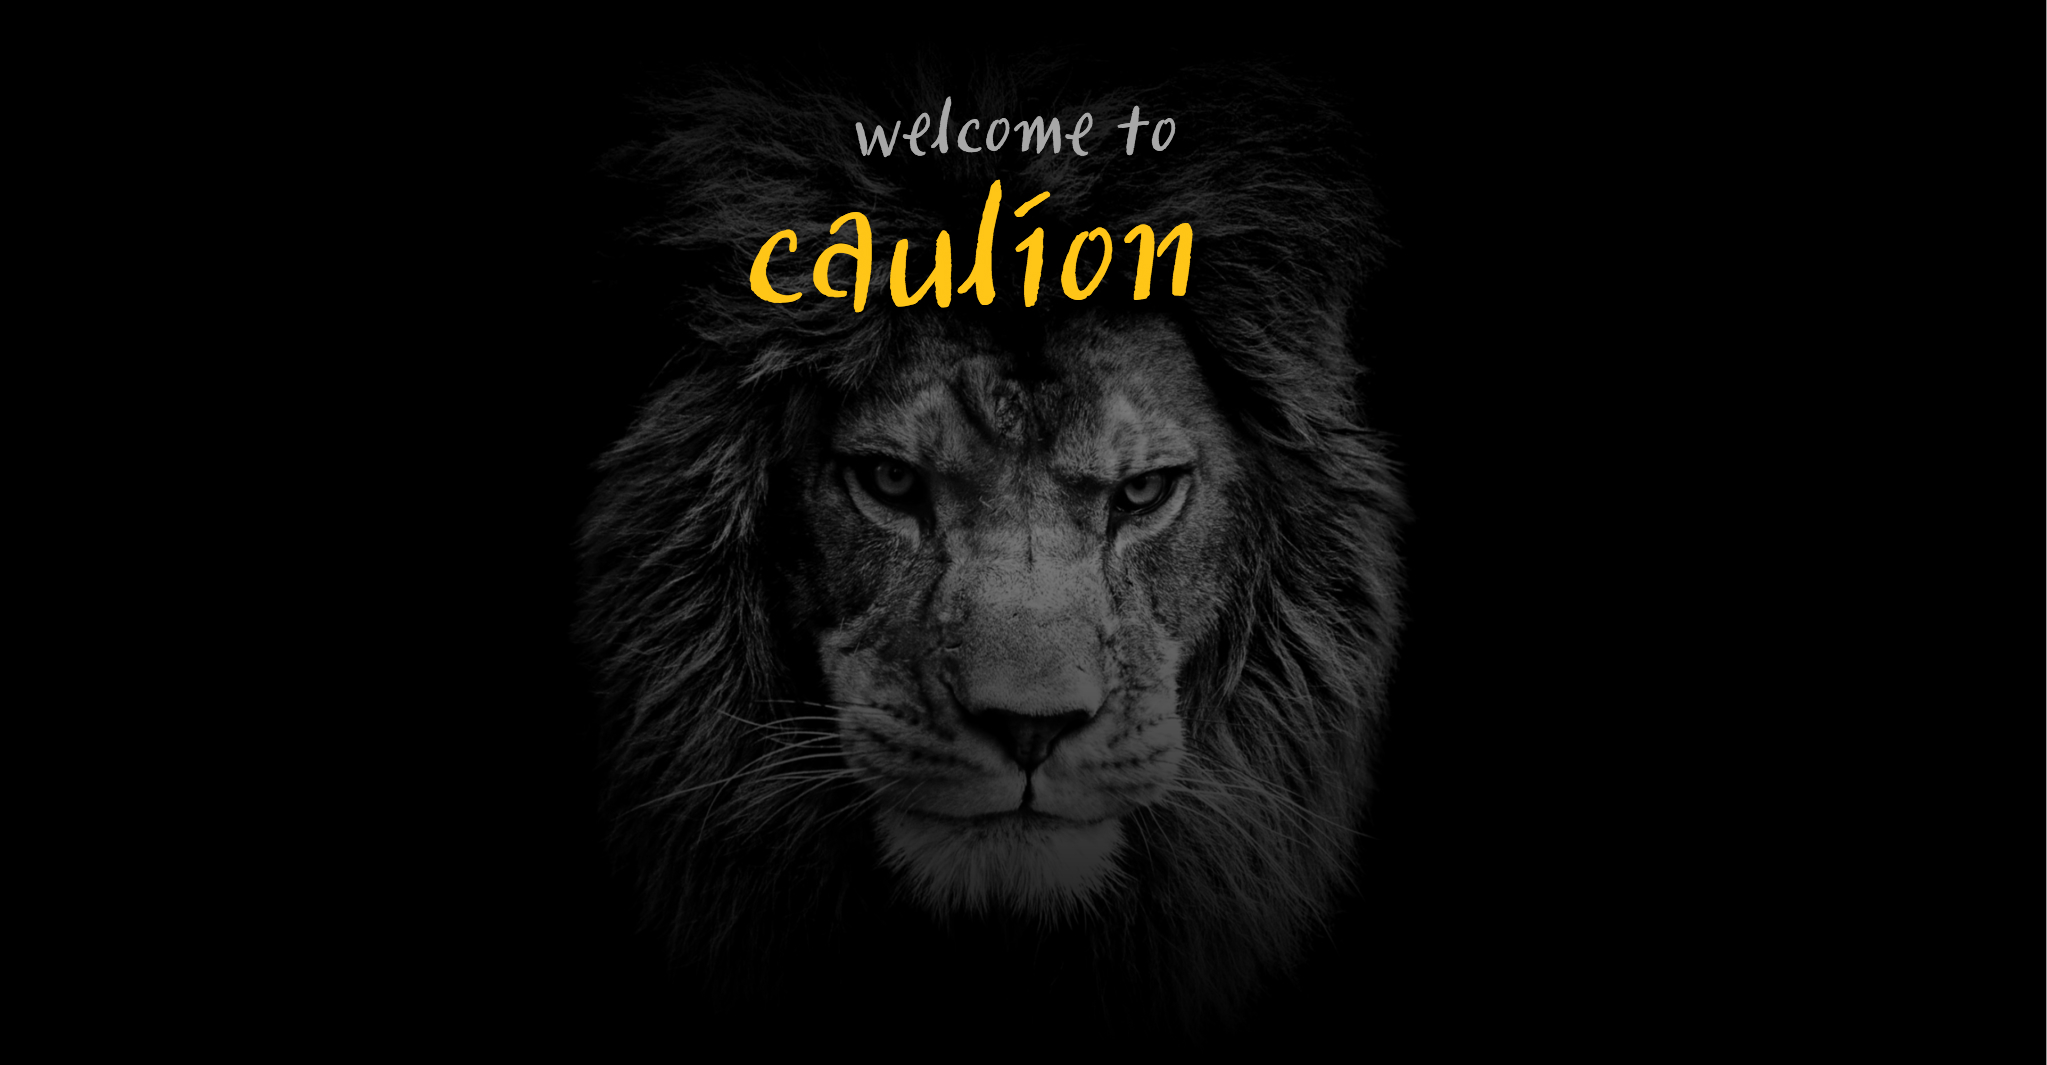
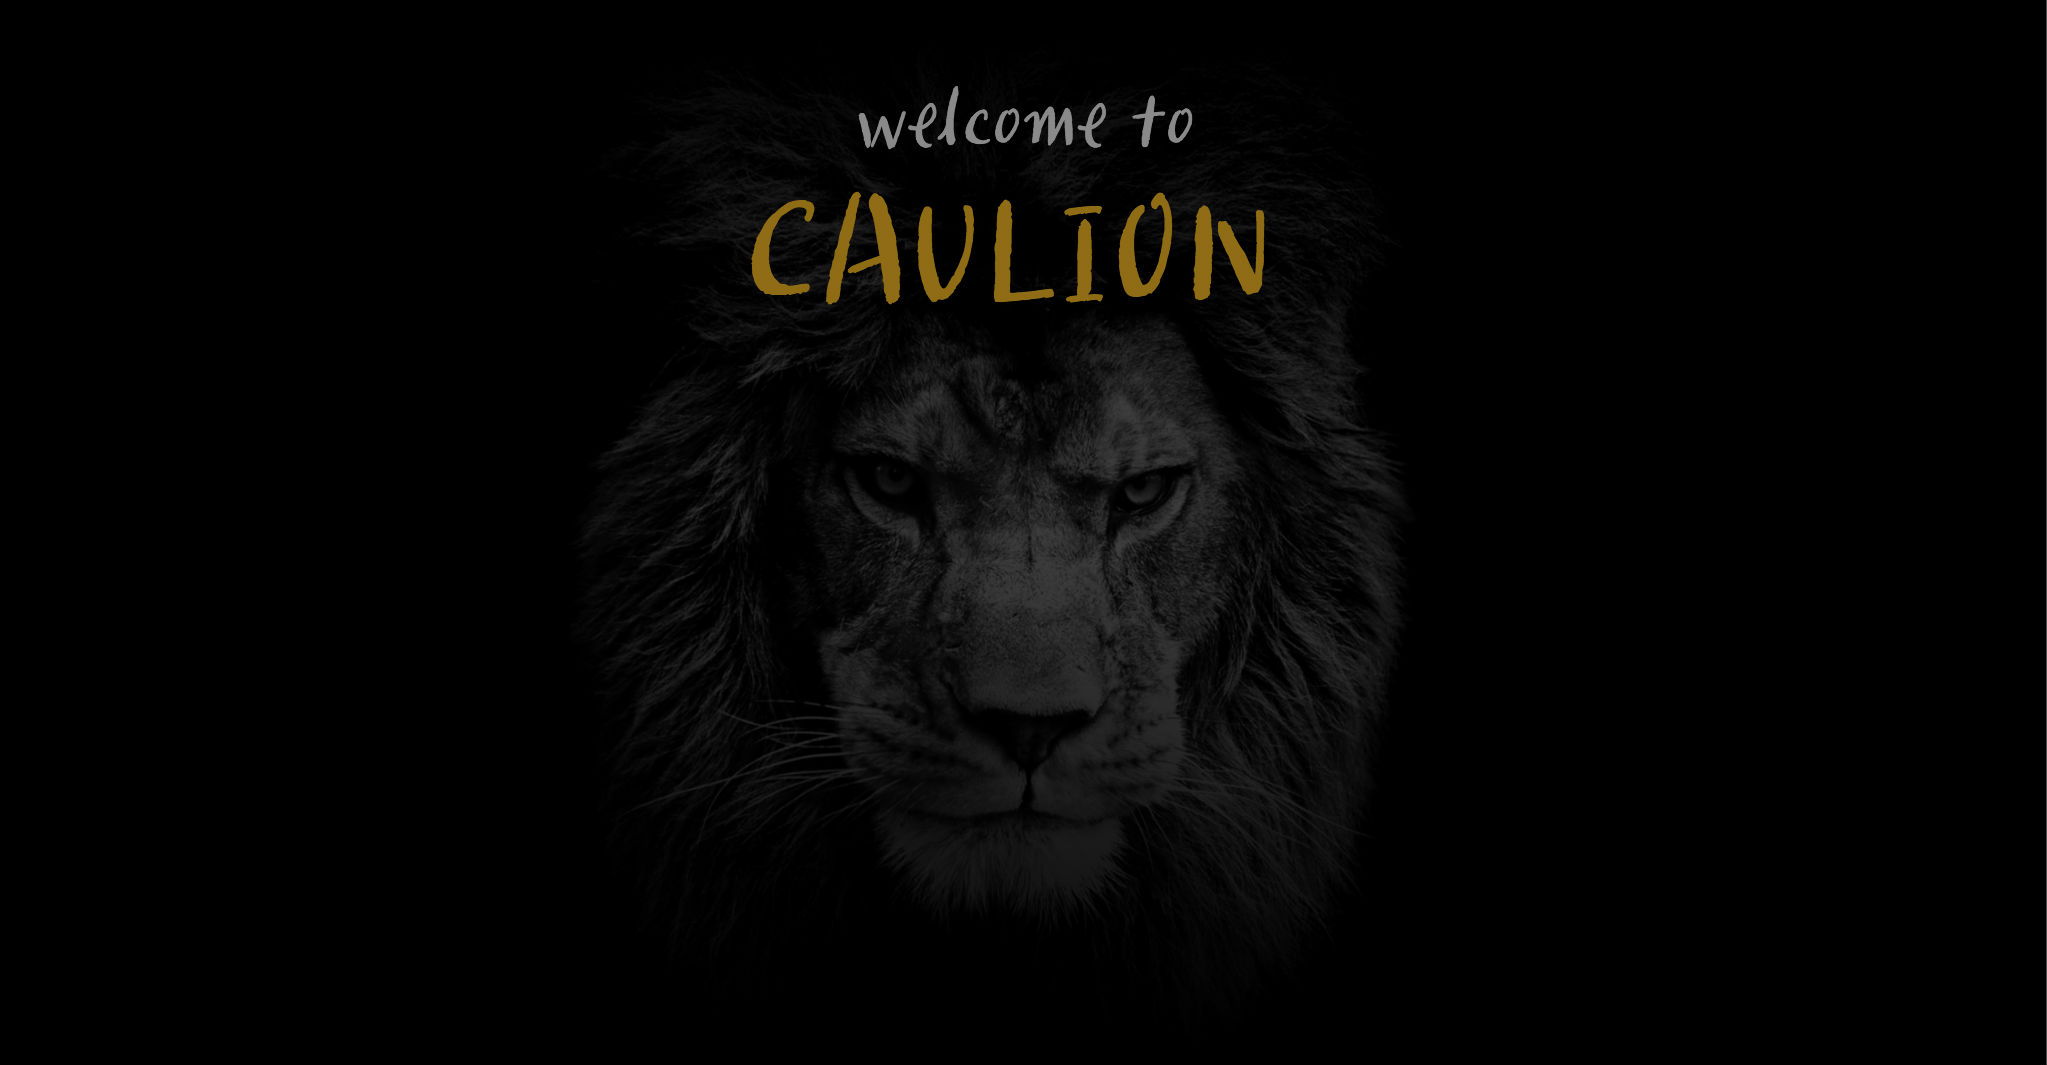
css

diff --git a/app/assets/stylesheets/home.scss b/app/assets/stylesheets/home.scss
@@ -185,12 +185,12 @@
 .firstpage {
   color: #ffc107;
   font-family: 'OTEnjoystoriesBA';
-  font-size: 60px;
+  font-size: 70px;
   text-align: center;
 }
 .sixth {
   font-family: 'OTEnjoystoriesBA';
-  font-size: 90px;
+  font-size: 100px;
   color: #ff5216;
 }
 .students {
